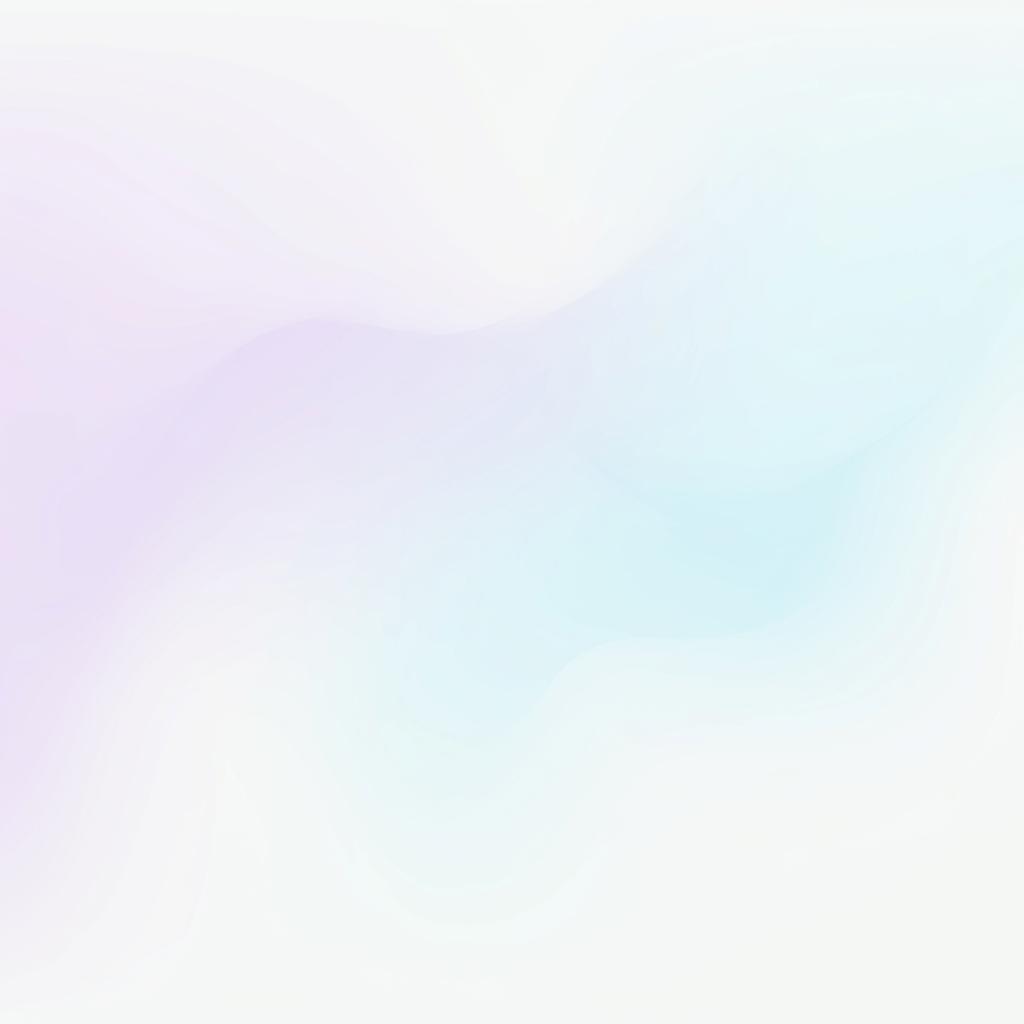
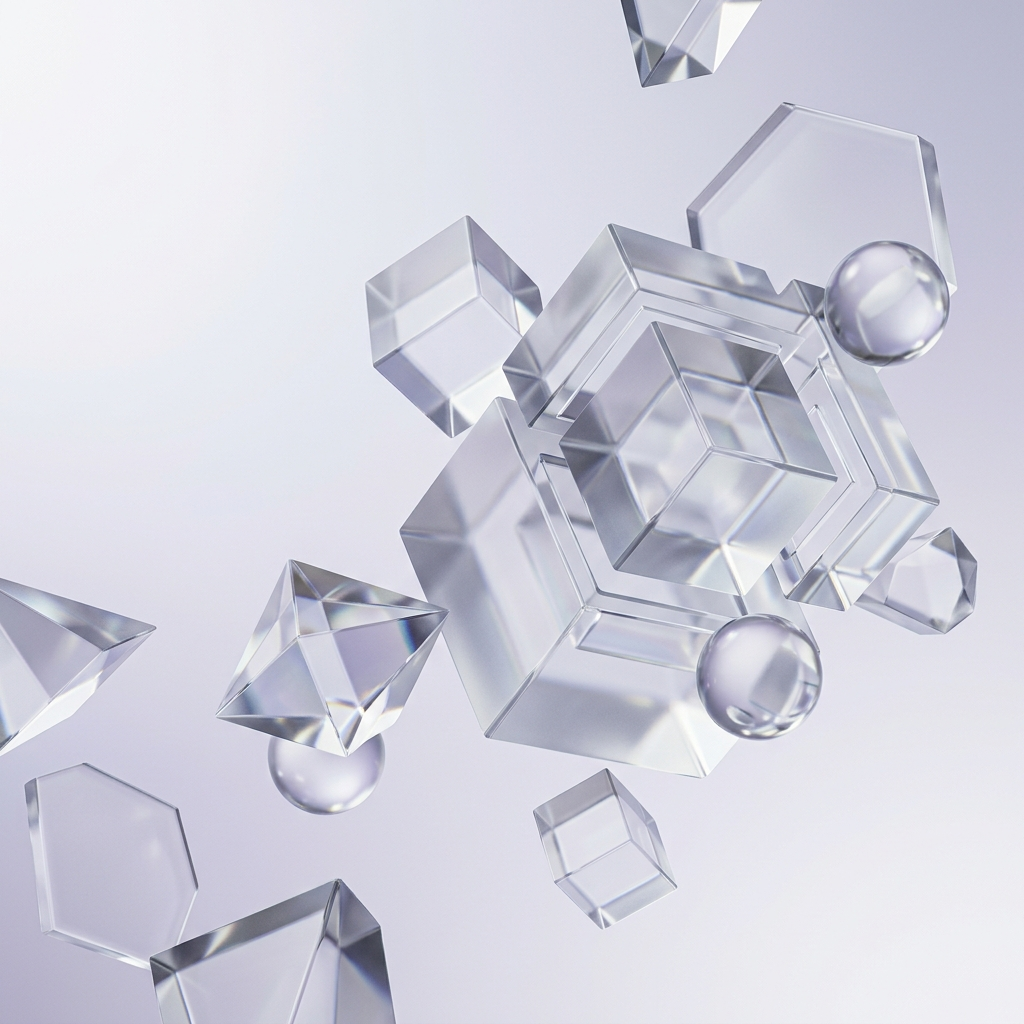
feat: upgrade modal background to a much sharper and elegant image, remove overlay

diff --git a/src/pages/LandingPage.tsx b/src/pages/LandingPage.tsx
@@ -684,7 +684,7 @@ export function LandingPage() {
                             backgroundPosition: 'center'
                         }}
                     >
-                        <div className="absolute inset-0 bg-white/10 dark:bg-slate-900/90 z-0 pointer-events-none"></div>
+                        <div className="absolute inset-0 bg-transparent dark:bg-slate-900/90 z-0 pointer-events-none"></div>
 
                         <button 
                             onClick={() => setShowBanner(false)}